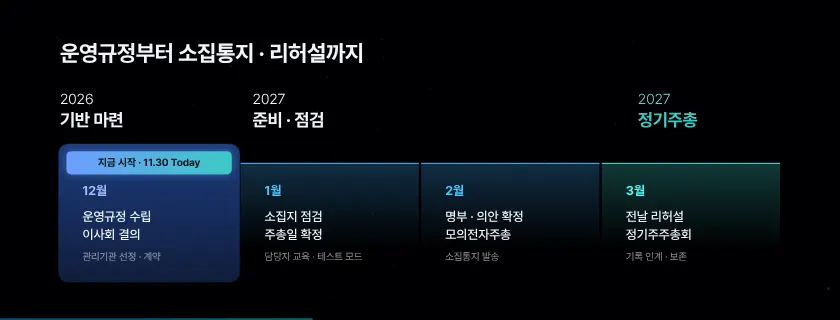
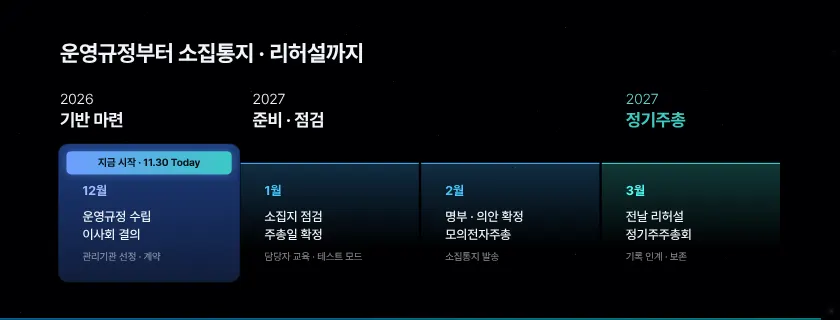
session4 K15: 「2027 정기주총」 단계 머리 왼쪽을 아래 3월 글자 왼쪽(3129px)에 맞춤
Claude-Session: https://claude.ai/code/session_01Mn7NmyW5iujmmHnaRBFKBZ

Changed region(s): [[0.3405, 0.9688, 0.9905, 1.0], [0.7429, 0.2812, 0.8357, 0.4062], [0.0, 0.9688, 0.031, 1.0]]

diff --git a/sw.js b/sw.js
@@ -1,5 +1,5 @@
 /* 오프라인 캐시 — 온라인 주소(https)로 한 번 열면 모든 파일을 저장해 두고, 통신이 끊겨도 저장본으로 동작합니다. */
-const V='seminar-screen-11262141';
+const V='seminar-screen-11262142';
 const FILES=["./","assets/KakaoBigSans-Bold.woff2","assets/KakaoBigSans-Regular.woff2","assets/KakaoSmallSans-Bold.woff2","assets/KakaoSmallSans-Light.woff2","assets/KakaoSmallSans-Regular.woff2","assets/OrbitControls.js","assets/PretendardVariable.woff2","assets/attendees.js","assets/blue-bloom.html","assets/cong1.webp","assets/cong2.webp","assets/ds-bg.html","assets/four-states.html","assets/intro.mp4","assets/irk-white.svg","assets/irk-wordmark-white.svg","assets/kism-intro.mp4","assets/kism-white.svg","assets/ksmp-white.svg","assets/panel.js","assets/qa-online.js","assets/s2/img1.png","assets/s2/img2.png","assets/s2/img3.png","assets/s2/img4.png","assets/s4/aws.webp","assets/s4/callcenter.webp","assets/s4/chair-1.webp","assets/s4/chair-2.webp","assets/s4/chair-3.webp","assets/s4/conexus-word.webp","assets/s4/ctl-1.webp","assets/s4/cx-1.webp","assets/s4/cx-2.webp","assets/s4/cx-3.webp","assets/s4/cx-flow.mp4","assets/s4/cx-pop1.webp","assets/s4/cx-pop2.webp","assets/s4/cx-vote.mp4","assets/s4/cx-vote.webp","assets/s4/cxs-1.webp","assets/s4/insurance.webp","assets/s4/isms-t.webp","assets/s4/isms.webp","assets/s4/ismsp-t.webp","assets/s4/ismsp.webp","assets/s4/kosmos-white.png","assets/s4/ks-1.webp","assets/s4/ks-2.webp","assets/s4/ks-3.webp","assets/s4/ks-4.webp","assets/s4/ks-5.webp","assets/s4/ks-video.webp","assets/s4/live-1.webp","assets/s4/live-2.webp","assets/s4/live-3.webp","assets/s4/live-4.webp","assets/s4/live-5.webp","assets/s4/live-6.webp","assets/s4/live-7.webp","assets/s4/live-8.webp","assets/s4/logos.webp","assets/s4/ocr-1.webp","assets/s4/ocr-2.webp","assets/s4/ocr-3.webp","assets/s4/ocr-4.webp","assets/s4/ocr-5.webp","assets/s4/on-1.png","assets/s4/on-2.webp","assets/s4/on-3.webp","assets/s4/on-4.png","assets/s4/on-5.webp","assets/s4/onboard-1.webp","assets/s4/onboard-2.webp","assets/s4/privacy.webp","assets/s4/proxymity.svg","assets/s4/rehearsal.webp","assets/s4/streaming-korea.webp","assets/s4/tab-1.webp","assets/s4/tab-2.webp","assets/s4/team.webp","assets/sched.js","assets/screen-title-2.svg","assets/screen-title-b-text.svg","assets/screen-title-b.svg","assets/seat-banners.js","assets/seat-fascia.js","assets/seat-screen.js","assets/seatmap.js","assets/service-intro.mp4","assets/speaker-scott.webp","assets/speaker1-1.webp","assets/speaker2.webp","assets/speaker3-1.webp","assets/supabase.min.js","assets/three.min.js","assets/title-logos.svg","control.html","index-fs.html","index.html","kism.html","lobby/cuts.html","lobby/index.html","mc.html","session2.html","session4.html","sw.js","tools/s2_build.py","tools/s2_shell.html","assets/s3/p01.webp","assets/s3/p02.webp","assets/s3/p03.webp","assets/s3/p04.webp","assets/s3/p05.webp","assets/s3/p06.webp","assets/s3/p07.webp","assets/s3/p08.webp","assets/s3/p09.webp","assets/s3/p10.webp","assets/s3/p11.webp","assets/s3/p12.webp","assets/s3/p13.webp","assets/s3/p14.webp","assets/s3/p15.webp","assets/s3/p16.webp","assets/s3/p17.webp","assets/s3/p18.webp","assets/s3/p19.webp","assets/s3/p20.webp","assets/s3/p21.webp","assets/s3/p22.webp","assets/s3/p23.webp","assets/kism/photo-main.webp","assets/kism/photo-2.webp","assets/kism/photo-3.webp","assets/kism/photo-4.webp","assets/sound/countdown-tick.mp3","assets/sound/sfx-s3-part.mp3","assets/sound/sfx-s4-reveal.mp3","assets/sound/sfx-s5-proxymity.mp3","assets/sound/sfx-s6-chime.mp3","assets/sound/sfx-s7-close.mp3","assets/sound/opening-hit.mp3","assets/s4/kosmos-color.svg","assets/s4/ke-logo.png","assets/s4/ke-live.mp4","assets/kism/kwon-talk.mp4","assets/kism/manual-book.webp","kism-open.html","kism_16x9.html","led.html","assets/s4/cx-ops.mp4","assets/s4/cx-ops.webp","assets/s4/agent-app.mp4","assets/s4/pc-map.webp","assets/s4/pc-map.mp4","assets/s4/agent-app.webp","assets/s4/k24b-bg.webp","session0.html","face.html","assets/face-link.js","assets/kism/photo-main-cut.webp","assets/s4/cx-chair.mp4","assets/s4/cx-chair.webp","assets/s4/cx-test.mp4","assets/s4/cx-test.webp","assets/s4/onboard-mgr.webp","assets/s4/proxymity-logo.png","assets/s4/k21-bg.webp","assets/s4/kosmos-admin-white.svg","assets/kism-intro-16x9.mp4","assets/seat-guide.html","assets/s4/app-icon-agent.svg","assets/ds-main.mp4","assets/s4/k2-agency.webp","assets/s4/k2-support.webp","assets/s4/thumbs/K00.webp","assets/s4/thumbs/K01.webp","assets/s4/thumbs/K02.webp","assets/s4/thumbs/K03.webp","assets/s4/thumbs/K04.webp","assets/s4/thumbs/K05.webp","assets/s4/thumbs/K06.webp","assets/s4/thumbs/K07.webp","assets/s4/thumbs/K08.webp","assets/s4/thumbs/K09.webp","assets/s4/thumbs/K10.webp","assets/s4/thumbs/K11.webp","assets/s4/thumbs/K12.webp","assets/s4/thumbs/K13.webp","assets/s4/thumbs/K14.webp","assets/s4/thumbs/K15.webp","assets/s4/thumbs/K16.webp","assets/s4/thumbs/K17.webp","assets/s4/thumbs/K18a.webp","assets/s4/thumbs/K18b.webp","assets/s4/thumbs/K18c.webp","assets/s4/thumbs/K19.webp","assets/s4/thumbs/K19b.webp","assets/s4/thumbs/K19c.webp","assets/s4/thumbs/K20.webp","assets/s4/thumbs/K21.webp","assets/s4/thumbs/K21b.webp","assets/s4/thumbs/K22s.webp","assets/s4/thumbs/K23.webp","assets/s4/thumbs/K23b.webp","assets/s4/thumbs/K24a.webp","assets/s4/thumbs/K24b.webp","assets/s4/thumbs/K24c.webp","assets/s4/thumbs/K25.webp","assets/s4/thumbs/K25b.webp","assets/s4/thumbs/K26.webp","assets/s4/thumbs/K27.webp","assets/s4/thumbs/K28a.webp","assets/s4/thumbs/K28b.webp","assets/s4/thumbs/K28c.webp","assets/s4/thumbs/K28d.webp","assets/s4/thumbs/K29.webp","assets/s4/thumbs/K30.webp","assets/s4/thumbs/K09b.webp","assets/s4/thumbs/K28e.webp","assets/s4/onsite-vote.mp4","assets/s4/onsite-vote.webp"];
 self.addEventListener('install',e=>{e.waitUntil(caches.open(V).then(c=>c.addAll(FILES)).then(()=>self.skipWaiting()));});
 self.addEventListener('activate',e=>{e.waitUntil(caches.keys().then(ks=>Promise.all(ks.filter(k=>k!==V).map(k=>caches.delete(k)))).then(()=>self.clients.claim()));});
